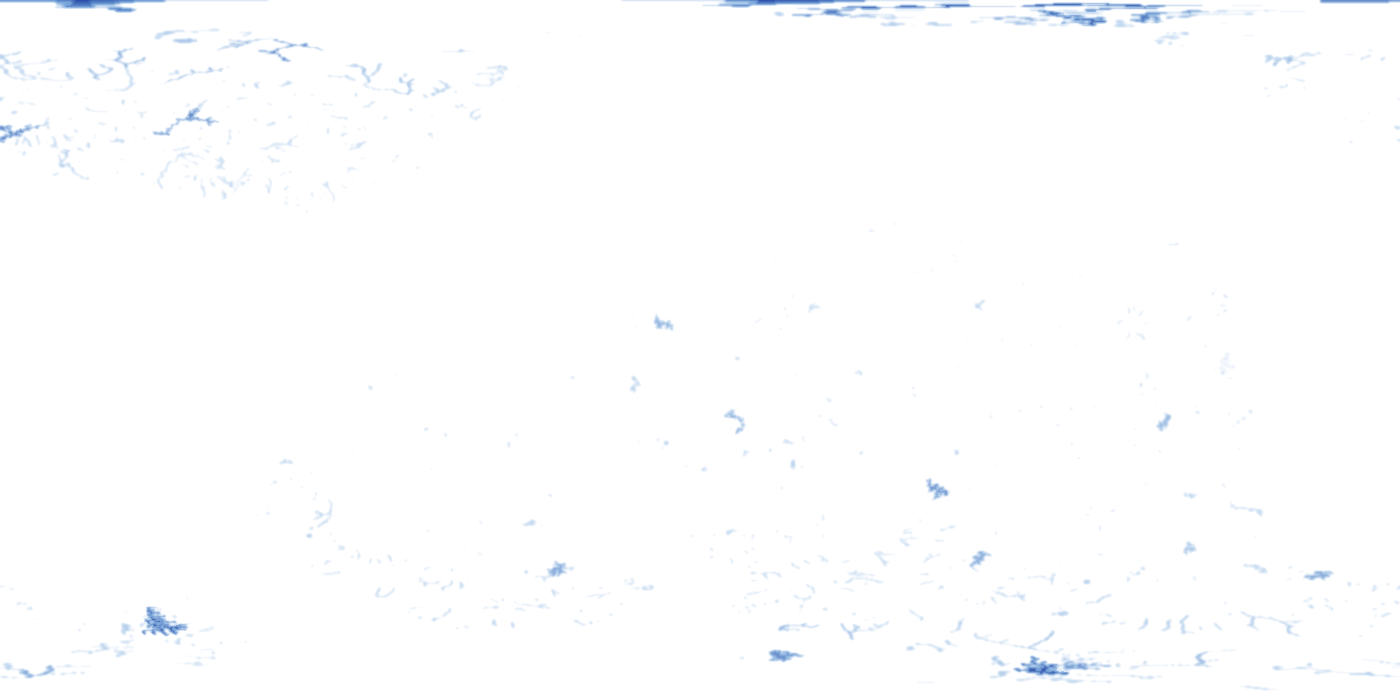
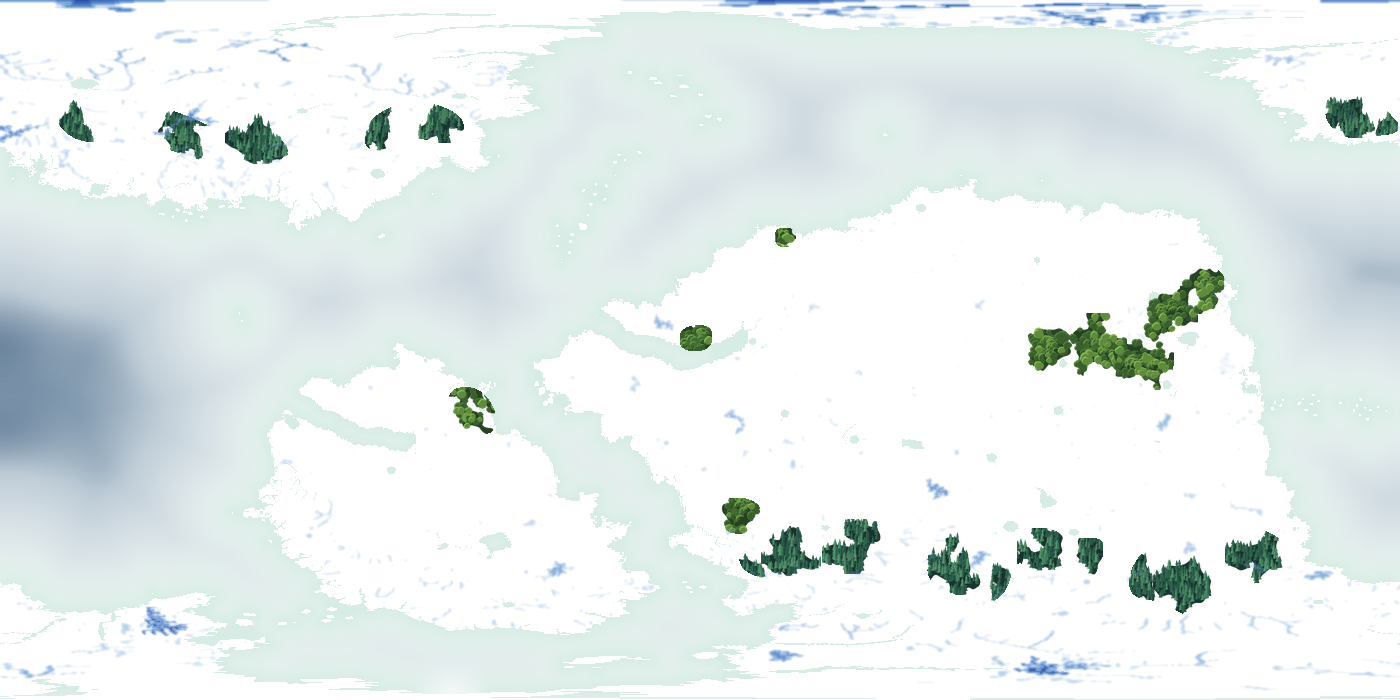
全実装を一括で通す build_world.py: 森・海の深さを足して球体2世界を作り直す
Claude-Session: https://claude.ai/code/session_01NNF75WtqSrNc5QxPaYtfZJ

diff --git a/docs/apps/fantasy-war/world3d.html b/docs/apps/fantasy-war/world3d.html
@@ -52,7 +52,8 @@ async function load(id){
   const ru=new Float32Array(q.length/3*2); o=0; for(const m of r.c){let acc=0; for(let j=0;j<m;j++){ if(j>0){const a=(o+2*j)*3,b=(o+2*j-2)*3; acc+=Math.hypot(rp[a]-rp[b],rp[a+1]-rp[b+1],rp[a+2]-rp[b+2]);} ru[(o+2*j)*2]=0; ru[(o+2*j+1)*2]=1; ru[(o+2*j)*2+1]=ru[(o+2*j+1)*2+1]=acc/60;} o+=2*m;}
   const rg=new THREE.BufferGeometry(); rg.setAttribute('position',new THREE.BufferAttribute(rp,3)); rg.setAttribute('uv',new THREE.BufferAttribute(ru,2)); rg.setIndex(ri);
   riv=new THREE.Mesh(rg,new THREE.MeshBasicMaterial({map:rivTex(),side:THREE.DoubleSide,polygonOffset:true,polygonOffsetFactor:-2,polygonOffsetUnits:-2})); S.add(riv);}}catch(e){console.log('river',e);}
- if(sea)S.remove(sea); sea=new THREE.Mesh(new THREE.PlaneGeometry(d.w*1.2,d.h*1.2),new THREE.MeshLambertMaterial({color:0xb4c4c0})); sea.rotation.x=-Math.PI/2; sea.position.y=-1; S.add(sea);
+ if(sea)S.remove(sea); sea=new THREE.Mesh(new THREE.PlaneGeometry(d.w*1.2,d.h*1.2),new THREE.MeshBasicMaterial({color:0xb4c4c0})); sea.rotation.x=-Math.PI/2; sea.position.y=-1; S.add(sea);
+ try{const t2=await new THREE.TextureLoader().loadAsync(`w3d/world${id}_sea.jpg`); t2.colorSpace=THREE.SRGBColorSpace; const p2=new THREE.Mesh(new THREE.PlaneGeometry(d.w,d.h),new THREE.MeshBasicMaterial({map:t2})); p2.position.z=2.0; sea.add(p2);}catch(e){}   // 海の深さの色(岸から沖へ濃く・岸ぞいの浅瀬)
  info=`面 ${d.f.length/3} / 読み込み ${(performance.now()-t0).toFixed(0)}ms`;
  st.textContent=info+'\nドラッグで回す。';
  window.__ready=id;

diff --git a/docs/apps/fantasy-war/mapstyle/tools/forest_world_layer.py b/docs/apps/fantasy-war/mapstyle/tools/forest_world_layer.py
@@ -5,31 +5,36 @@ import sys, os, numpy as np, cv2
 from PIL import Image
 sys.path.insert(0, os.path.dirname(os.path.abspath(__file__)))
 import forest_mass as fm
-wd = np.array(Image.open(sys.argv[1].rstrip('/') + '/world-data.png')); out = sys.argv[2]; seed = int(sys.argv[3]) if len(sys.argv) > 3 else 1
-H0, W0 = wd.shape[:2]; bio = wd[..., 1]; R = wd[..., 0].astype(np.float32); land = (bio > 0) & (R >= 20)
-Hh = R / 2.55
-broad = np.isin(bio, [5, 6, 7, 8]) & land; conif = (bio == 9) & land
-low = Hh < 55                                         # 高い山の上には置かない
-layer = Image.new('RGBA', (W0, H0), (0, 0, 0, 0)); placed = []
-for kind, msk in (('broad', broad & low), ('conif', conif & low)):
-    m = cv2.erode(msk.astype(np.uint8), np.ones((5, 5), np.uint8))
-    D = cv2.GaussianBlur(m.astype(np.float32), (0, 0), 14)
-    order = np.dstack(np.unravel_index(np.argsort(-D.ravel()), D.shape))[0]
-    reg = cv2.dilate((D > 0.1).astype(np.uint8), np.ones((7, 7), np.uint8))
-    for y, x in order[::9]:
-        if D[y, x] < 0.30: break
-        if all((x - px) ** 2 + (y - py) ** 2 > 78 ** 2 for px, py, _ in placed):
-            size = int(78 + 45 * D[y, x]); i = len(placed); placed.append((x, y, kind))
-            L = None
-            for t in range(6):          # 内側が空になる小さな塊は、種を変えてやり直す
-                try:
-                    if kind == 'broad': L, _ = fm.make_mix(size, seed + i + 97 * t, (4.0, 8.4), fm.PAL['broad3'], light_gauss={'seed': i % 3}, base_gauss={'seed': (i + t) % 3})
-                    else: L, _ = fm.make_mix(size, seed + i + 97 * t, (4.2, 7.0), fm.PAL['conif'], light_gauss={'seed': i % 3}, base_gauss={'seed': (i + t) % 3}, kind_in='conif3_moon', kind_edge='conif3_top')
-                    break
-                except ValueError: L = None
-            if L is None: continue
-            arr = np.array(L[-1].resize((size, size), Image.LANCZOS)); x0, y0 = int(x - size / 2), int(y - size / 2)
-            ys, xs = max(0, y0), max(0, x0); ye, xe = min(H0, y0 + size), min(W0, x0 + size)
-            a = arr[ys - y0:ye - y0, xs - x0:xe - x0].copy(); a[..., 3] = (a[..., 3] * reg[ys:ye, xs:xe]).astype(np.uint8)
-            layer.alpha_composite(Image.fromarray(a), (xs, ys))
-layer.save(out); print('塊', len(placed), '針葉樹', sum(p[2] == 'conif' for p in placed))
+def build(wd, seed=1, dmin=None, sp=None):
+    DMIN = float(os.environ.get('FM_FOREST_DMIN', '0.08')) if dmin is None else dmin; SP = int(os.environ.get('FM_FOREST_SP', '50')) if sp is None else sp
+    H0, W0 = wd.shape[:2]; bio = wd[..., 1]; R = wd[..., 0].astype(np.float32); land = (bio > 0) & (R >= 20)
+    Hh = R / 2.55
+    broad = np.isin(bio, [5, 6, 7, 8]) & land; conif = (bio == 9) & land
+    low = Hh < 55                                         # 高い山の上には置かない
+    layer = Image.new('RGBA', (W0, H0), (0, 0, 0, 0)); placed = []
+    for kind, msk in (('broad', broad & low), ('conif', conif & low)):
+        m = cv2.erode(msk.astype(np.uint8), np.ones((5, 5), np.uint8))
+        D = cv2.GaussianBlur(m.astype(np.float32), (0, 0), 14)
+        order = np.dstack(np.unravel_index(np.argsort(-D.ravel()), D.shape))[0]
+        reg = cv2.dilate((D > 0.1).astype(np.uint8), np.ones((7, 7), np.uint8))
+        for y, x in order[::9]:
+            if D[y, x] < DMIN: break
+            if all((x - px) ** 2 + (y - py) ** 2 > SP ** 2 for px, py, _ in placed):
+                size = int(SP + 45 * D[y, x]); i = len(placed); placed.append((x, y, kind))
+                L = None
+                for t in range(6):          # 内側が空になる小さな塊は、種を変えてやり直す
+                    try:
+                        if kind == 'broad': L, _ = fm.make_mix(size, seed + i + 97 * t, (4.0, 8.4), fm.PAL['broad3'], light_gauss={'seed': i % 3}, base_gauss={'seed': (i + t) % 3})
+                        else: L, _ = fm.make_mix(size, seed + i + 97 * t, (4.2, 7.0), fm.PAL['conif'], light_gauss={'seed': i % 3}, base_gauss={'seed': (i + t) % 3}, kind_in='conif3_moon', kind_edge='conif3_top')
+                        break
+                    except ValueError: L = None
+                if L is None: continue
+                arr = np.array(L[-1].resize((size, size), Image.LANCZOS)); x0, y0 = int(x - size / 2), int(y - size / 2)
+                ys, xs = max(0, y0), max(0, x0); ye, xe = min(H0, y0 + size), min(W0, x0 + size)
+                a = arr[ys - y0:ye - y0, xs - x0:xe - x0].copy(); a[..., 3] = (a[..., 3] * reg[ys:ye, xs:xe]).astype(np.uint8)
+                layer.alpha_composite(Image.fromarray(a), (xs, ys))
+    print('森の塊', len(placed), '針葉樹', sum(p[2] == 'conif' for p in placed)); return layer
+
+if __name__ == "__main__":
+    wd = np.array(Image.open(sys.argv[1].rstrip('/') + '/world-data.png')); out = sys.argv[2]; seed = int(sys.argv[3]) if len(sys.argv) > 3 else 1
+    build(wd, seed).save(out)

diff --git a/docs/apps/fantasy-war/mapstyle/tools/sea_layer.py b/docs/apps/fantasy-war/mapstyle/tools/sea_layer.py
@@ -1,0 +1,28 @@
+# 海の深さの色と浅瀬を、透明な層(地図と同じ位置のUV)にする。illus.py の FM_DEPTH(岸からの距離で浅い=明るい・沖=濃い青+沖の深み)と
+# FM_COAST=2 の浅瀬(岸ぞいの明るい青緑)の考え方を、3D用の層にしたもの(2Dの絵の羊皮紙の上でなく、3Dの海の面の上に重ねる)。
+import numpy as np
+from PIL import Image
+from scipy import ndimage as ndi
+def build(land, seed=1, depth_k=0.8, depth_d=230.0, shallow_k=0.8, shallow_d=30.0, deep2_k=0.7):
+    H, W = land.shape; sea = ~land
+    dist = ndi.distance_transform_edt(~land).astype(np.float32)
+    dd = ndi.gaussian_filter(dist, 6); dep = np.clip(dd / depth_d, 0, 1) ** 0.85
+    nz = ndi.gaussian_filter(np.random.RandomState(seed + 41).randn(H, W).astype(np.float32), 28); nz /= (nz.std() + 1e-6)
+    far = np.clip((dd - 110.0) / 90.0, 0, 1); core = ndi.gaussian_filter(np.clip(far * (0.65 + 0.35 * nz), 0, 1), 5) * deep2_k
+    closed = ndi.binary_closing(land, structure=np.ones((3, 3), bool), iterations=7)
+    dw = ndi.gaussian_filter(ndi.distance_transform_edt(~closed).astype(np.float32), 2.5); sh = np.exp(-dw / shallow_d) * shallow_k
+    rgb = np.zeros((H, W, 3), np.float32); a = np.zeros((H, W), np.float32)
+    def over(c, k):
+        nonlocal rgb, a
+        k = np.clip(k, 0, 1); na = k + a * (1 - k); rgb = np.where(na[..., None] > 0, (np.array(c, np.float32) * k[..., None] + rgb * (a * (1 - k))[..., None]) / np.maximum(na[..., None], 1e-6), rgb); a = na
+    over((86, 122, 150), dep * depth_k * 0.9)          # 沖ほど濃い青灰
+    over((42, 74, 112), core)                           # 沖の深み(最濃の青の塊)
+    over((206, 232, 222), sh)                           # 岸ぞいの浅瀬
+    a = a * sea; out = np.dstack([rgb, a * 255]).clip(0, 255).astype(np.uint8)
+    return Image.fromarray(out, 'RGBA')
+
+def colormap(land, seed=1, base=(180, 196, 192)):
+    """3Dの海の面に貼る、不透明な色の地図(1400x700 RGB)。層(build)を、海の基本色の上に重ねたもの。陸の所は基本色のまま(陸は地形の面が覆う)。"""
+    lay = np.array(build(land, seed)).astype(np.float32); a = lay[..., 3:4] / 255
+    rgb = np.array(base, np.float32) * (1 - a) + lay[..., :3] * a
+    return Image.fromarray(rgb.clip(0, 255).astype(np.uint8), 'RGB')

diff --git a/docs/apps/fantasy-war/mapstyle/tools/build_world.py b/docs/apps/fantasy-war/mapstyle/tools/build_world.py
@@ -1,0 +1,19 @@
+# 全ての実装を一括で通すアプリ(11-23 ユーザー指示「全ての実装をするアプリを完成させて実行してみそ」)。
+# 入力: PWGの生データ(pwg_sphere_probe3.ts が書く r<seed>_*.bin。ドライブ「世界データ」の球体PWG_seed<seed>_生データ に保管)
+# 通す実装(見せ方の列): 球体2:1の展開・陸の少ない列で海に切る → ローポリ(mapstyle40の基準)→ 面ごとのUV(アトラス)
+#   → 川(大河のみの帯)・湖(大小で濃淡)→ 森(第10版の描き方・森の群系)→ 海の深さ・浅瀬 → 3D表示(world3d.html)用ファイルとハブへの配置。
+# 使い方: python3 -I build_world.py <生データのあるディレクトリ> <seed> [<seed> ...]   例: python3 -I build_world.py /tmp/claude-0/riv2 31 32
+import sys, os, shutil, time, subprocess
+T = os.path.dirname(os.path.abspath(__file__)); FW = os.path.abspath(os.path.join(T, '..', '..'))
+def build(raw, seed, work=None):
+    t0 = time.time(); work = work or os.path.join(raw, 'o%dt' % seed); os.makedirs(work, exist_ok=True)
+    name = 'worldsp%d' % seed
+    r = subprocess.run([sys.executable, '-I', os.path.join(T, 'pwg_sphere_convert.py'), os.path.join(raw, 'r%d' % seed), work, name, str(seed)], cwd=work, capture_output=True, text=True)
+    if r.returncode: print(r.stderr[-1500:]); raise SystemExit('変換に失敗 seed%d' % seed)
+    for f in ('.json', '.jpg', '_riv.json', '_sea.jpg'): shutil.copy(os.path.join(work, name + f), os.path.join(FW, 'w3d', name + f))
+    d = os.path.join(FW, 'mapstyle', 'pwgsphere', 'sp%d' % seed); os.makedirs(d, exist_ok=True)
+    for f in ('world-data.png', 'water-layer.png'): shutil.copy(os.path.join(work, f), os.path.join(d, f))
+    print('seed', seed, '完了 %.1f秒' % (time.time() - t0)); print(r.stdout.strip())
+if __name__ == '__main__':
+    raw = sys.argv[1]
+    for s in sys.argv[2:]: build(raw, int(s))

diff --git a/docs/apps/fantasy-war/mapstyle/tools/pwg_sphere_convert.py b/docs/apps/fantasy-war/mapstyle/tools/pwg_sphere_convert.py
@@ -43,7 +43,14 @@ def main(pre, outdir, name, seed=1):
     os.environ['FM_LP_UV'] = '1'; os.environ['FM_LP_ATLAS'] = '1'; os.environ['FM_LP_DUMP'] = name
     if D is not None:
         import water_layer
-        ov = outdir + '/water-layer.png'; print(water_layer.make(G, lake, land0, H, ov, shift, seed)); os.environ['FM_LP_OVERLAY'] = ov
+        wo = outdir + '/water-only.png'; print(water_layer.make(G, lake, land0, H, wo, shift, seed))
+        import cv2, forest_world_layer, sea_layer; from PIL import Image as _I
+        wl = cv2.imread(wo, cv2.IMREAD_UNCHANGED); wl = _I.fromarray(cv2.cvtColor(wl, cv2.COLOR_BGRA2RGBA))
+        sea_layer.colormap(land, seed).save(name + '_sea.jpg', quality=92)   # 3Dの海の面に貼る色の地図
+        lay = sea_layer.build(land, seed)                              # 海の深さ・浅瀬(11-23 全実装に統合)
+        lay.alpha_composite(forest_world_layer.build(dat, seed))       # 森の塊(第10版)
+        lay.alpha_composite(wl)                                        # 川の水面・湖(いちばん上)
+        ov = outdir + '/water-layer.png'; cv2.imwrite(ov, cv2.cvtColor(np.array(lay), cv2.COLOR_RGBA2BGRA)); os.environ['FM_LP_OVERLAY'] = ov
     import lowpoly
     img = np.zeros((Hh, W, 3), np.float32) + np.array([206, 223, 235], np.float32)
     lowpoly.paint(img, H, land, BI, seed)

diff --git a/docs/apps/sekai-hex/design/STATE.md b/docs/apps/sekai-hex/design/STATE.md
@@ -216,6 +216,7 @@
 - 【指摘・指示 11-22 22:01 ユーザー】『自然な地図の山なんて望んでいない。多少の強調は必要。強調の基準はハブに書いたよね。ハブから外れている。また、川の数が多すぎる。川も山も特徴的なのだけを選んで強調して書くんだよ』。→ 認める(私の落ち度): 21:56の『実寸の縮尺×誇張30倍』は、ハブの確定済みの基準(カード6A『地形には特出する地形があり、絵はそれをいろいろな形で示す=デフォルメ=特徴を選んで強調』・カード6E『ゆるい3D+強調は高い山が集まる所だけ』・平均してならすのは失敗)を確かめずに、自分で自然さの基準を作ったもので、基準違反。21:56の誇張30倍は取り下げ(置き換え済み)。実施: ①山=カード6E(mapstyle40)の基準に戻した: 全体はゆるい3D(強さ0.535)・高い山が集まる所だけ強調(0.775、集まりのしきい値0.17)・低地の面は粗く山は細かく・山の縁は中間の細かさ(FM_LP_GENTLE=1 BASE=0.535 EMPH=0.775 D0=0.17 SP=1.3 RING=1)。pwg_sphere_convert.py の既定にした。②川=特徴的なものだけ選ぶ: 流域の最大の順位が6以上の大河の系統だけ、その中の順位5以上を描く(旧: 順位4以上の全部)。幅を太め(旧の1.4倍)に強調。結果(実測): 川の連なり 約1,070→124(seed31)・1,090→134(seed32)、頂点 2.0万→0.4万。山の面は12,120・10,155、面の伸び率は中央1.26〜1.30倍・90%点約3倍・99%点約5倍(強調域の山は伸びる=ユーザー『少し伸びてよい』の範囲と解釈)、最高点は約67画素(旧: 97画素の針→21:56の56画素の平坦)。目視(PC画面・全体と近づき): 山脈が強調された尖った峰として見え、低地はゆるく、川は少数の大河が山から低地・海へ流れる。限界: 川は大河中心で、小さな島(西の島)や湖の周りでは川がほぼ無い/大河の選び方(最大順位6以上・描く順位5以上)は私の初期値(RIV_BASIN・RIV_ORD で変える。順位4で約3倍に増える)/山の強調の強さはmapstyle40の値のまま(ユーザー評価済みの値)で、3D表示の高さ倍率(1.1)は未調整/PWG5の5世界は未反映/iPhone未測定。次の一手: 球体の世界に森を足す(強調して選んだ場所に)。
 - 【指示 11-22 22:11 ユーザー(参考画像: 光る川のファンタジー地図)】『水色すぎる。こんな感じで光らせても濃い色も混じるんだよ。濃い色と水色を混ぜて』。→ 実施: 川の色を『光る水色の芯+縁と所々に濃い青』にした。川の帯に絵(模様)を貼る形にし(world3d.html の rivTex)、幅方向=芯が明るい水色(150,228,255)で縁ほど濃い青(28,52,150)、長さ方向=濃淡のむら(芯が水色〜青(45,95,205)の間で変わる、周期は川の長さ約60ごと)。湖も、水色一色をやめ青寄り(92,150,214)・縁を濃い青(34,58,140)に。結果(目視・PC画面の近づいた3D): 川は明るい芯と濃い縁で光るように見え、所々青が濃くなる。限界: 色の配合・濃淡の周期は私の初期値/『光る』(ぼんやり発光・川の周りの滲み)は未実装で、色の濃淡のみ/湖は川より濃く見える/参考画像の紫の混じり・稲妻状の細い光は未対応/iPhone未測定。次の一手: 色の濃淡を見て調整点を一言、または球体の世界に森を足す。
 - 【指示 11-23 00:56 ユーザー】『湖の中を今の色にして外周を海と同様に薄く描くとそれらしく見える。小さな湖はあまり目立たせない。大きな湖だけ濃淡をつけて目立たせる』。→ 実施: 湖の中は今の青、外周に海と同じ薄い縁(浅瀬色)を足し、濃い縁取りは廃止。湖の大きさで見え方を変えた(小さい湖=かなり淡い、大きい湖=中心ほど濃い青+薄い縁)。実測: 湖の数 1678/1613(球体2世界)、大きい湖(400画素以上)4/3、湖の画素 10142/9461。目視(湖の絵の切り出し): 大きい湖は中心が濃く縁が淡い、小さい湖はほぼ目立たない。3Dでの大湖の近接は未確認。限界: 大きい湖の基準(400画素)・淡さは私の初期値/中くらいの湖(60〜400画素)の見え方は未調整/iPhone未測定。次の一手: 球体の世界に森を足す。
+- 【指示 11-23 01:53 ユーザー】『いちいち確かめすぎ。全ての実装をするアプリを完成させて実行してみそ』。→ 実施: 一括実行アプリ build_world.py(mapstyle/tools)を作って実行。生データ(PWG)→球体2:1展開・海で切る→ローポリ(mapstyle40の基準)→面ごとのUV→川(大河のみの帯)・湖(大小で濃淡)→森(第10版の描き方・森の群系)→海の深さ・浅瀬→3D表示の用ファイルとハブへの配置、を1コマンドで通す(使い方: python3 -I build_world.py <生データdir> 31 32)。森=pwg_sphere_convertが forest_world_layer.build を呼び、海=sea_layer.py(岸からの距離で沖ほど濃い青・沖の深み・岸ぞいの浅瀬。3Dの海の面に貼る色の地図 world<名>_sea.jpg を world3d.html が読む)。実測: 2世界の実行 約16秒(各8秒)・森の塊 32/33(針葉樹 19/8。置き方のしきい値は私の初期値 FM_FOREST_DMIN=0.08・SP=50)・面 12,120/10,155・エラー無し。目視(PC画面・全体): 山・森の塊・川・湖・海の深さの色が出た。限界: 森の置き場は旧方式(PWG5で『良かった』と評価した置き方)のままで、強調して選ぶ基準(カード6G)・群系28は未/海岸線の整え(mapstyle45の線)・方位記号・縮尺棒・題と枠・地名・都市は未搭載(まだ全部入りではない)/海の面の周りに薄い灰色の帯が見える所がある/目視は全体のみで近づいた確認は未/iPhone未測定。次の一手: 未搭載の見せ方(海岸線・方位・縮尺・題と枠)を build_world に足す。
 
 ## カード15 制作プロトコル(超基礎概念)と、このプロジェクトの作業フロー【確定(ユーザー指示 11-21)+案】
 - 適用範囲: このプロジェクト(ファンタジー世界戦争=世界ハニカム、docs/apps/fantasy-war と sekai-hex)だけ。他のアプリには適用しない。

diff --git a/docs/apps/sekai-hex/design/cards/c06g.md b/docs/apps/sekai-hex/design/cards/c06g.md
@@ -102,3 +102,4 @@
 - 【指摘・指示 11-22 22:01 ユーザー】『自然な地図の山なんて望んでいない。多少の強調は必要。強調の基準はハブに書いたよね。ハブから外れている。また、川の数が多すぎる。川も山も特徴的なのだけを選んで強調して書くんだよ』。→ 認める(私の落ち度): 21:56の『実寸の縮尺×誇張30倍』は、ハブの確定済みの基準(カード6A『地形には特出する地形があり、絵はそれをいろいろな形で示す=デフォルメ=特徴を選んで強調』・カード6E『ゆるい3D+強調は高い山が集まる所だけ』・平均してならすのは失敗)を確かめずに、自分で自然さの基準を作ったもので、基準違反。21:56の誇張30倍は取り下げ(置き換え済み)。実施: ①山=カード6E(mapstyle40)の基準に戻した: 全体はゆるい3D(強さ0.535)・高い山が集まる所だけ強調(0.775、集まりのしきい値0.17)・低地の面は粗く山は細かく・山の縁は中間の細かさ(FM_LP_GENTLE=1 BASE=0.535 EMPH=0.775 D0=0.17 SP=1.3 RING=1)。pwg_sphere_convert.py の既定にした。②川=特徴的なものだけ選ぶ: 流域の最大の順位が6以上の大河の系統だけ、その中の順位5以上を描く(旧: 順位4以上の全部)。幅を太め(旧の1.4倍)に強調。結果(実測): 川の連なり 約1,070→124(seed31)・1,090→134(seed32)、頂点 2.0万→0.4万。山の面は12,120・10,155、面の伸び率は中央1.26〜1.30倍・90%点約3倍・99%点約5倍(強調域の山は伸びる=ユーザー『少し伸びてよい』の範囲と解釈)、最高点は約67画素(旧: 97画素の針→21:56の56画素の平坦)。目視(PC画面・全体と近づき): 山脈が強調された尖った峰として見え、低地はゆるく、川は少数の大河が山から低地・海へ流れる。限界: 川は大河中心で、小さな島(西の島)や湖の周りでは川がほぼ無い/大河の選び方(最大順位6以上・描く順位5以上)は私の初期値(RIV_BASIN・RIV_ORD で変える。順位4で約3倍に増える)/山の強調の強さはmapstyle40の値のまま(ユーザー評価済みの値)で、3D表示の高さ倍率(1.1)は未調整/PWG5の5世界は未反映/iPhone未測定。次の一手: 球体の世界に森を足す(強調して選んだ場所に)。
 - 【指示 11-22 22:11 ユーザー(参考画像: 光る川のファンタジー地図)】『水色すぎる。こんな感じで光らせても濃い色も混じるんだよ。濃い色と水色を混ぜて』。→ 実施: 川の色を『光る水色の芯+縁と所々に濃い青』にした。川の帯に絵(模様)を貼る形にし(world3d.html の rivTex)、幅方向=芯が明るい水色(150,228,255)で縁ほど濃い青(28,52,150)、長さ方向=濃淡のむら(芯が水色〜青(45,95,205)の間で変わる、周期は川の長さ約60ごと)。湖も、水色一色をやめ青寄り(92,150,214)・縁を濃い青(34,58,140)に。結果(目視・PC画面の近づいた3D): 川は明るい芯と濃い縁で光るように見え、所々青が濃くなる。限界: 色の配合・濃淡の周期は私の初期値/『光る』(ぼんやり発光・川の周りの滲み)は未実装で、色の濃淡のみ/湖は川より濃く見える/参考画像の紫の混じり・稲妻状の細い光は未対応/iPhone未測定。次の一手: 色の濃淡を見て調整点を一言、または球体の世界に森を足す。
 - 【指示 11-23 00:56 ユーザー】『湖の中を今の色にして外周を海と同様に薄く描くとそれらしく見える。小さな湖はあまり目立たせない。大きな湖だけ濃淡をつけて目立たせる』。→ 実施: 湖の中は今の青、外周に海と同じ薄い縁(浅瀬色)を足し、濃い縁取りは廃止。湖の大きさで見え方を変えた(小さい湖=かなり淡い、大きい湖=中心ほど濃い青+薄い縁)。実測: 湖の数 1678/1613(球体2世界)、大きい湖(400画素以上)4/3、湖の画素 10142/9461。目視(湖の絵の切り出し): 大きい湖は中心が濃く縁が淡い、小さい湖はほぼ目立たない。3Dでの大湖の近接は未確認。限界: 大きい湖の基準(400画素)・淡さは私の初期値/中くらいの湖(60〜400画素)の見え方は未調整/iPhone未測定。次の一手: 球体の世界に森を足す。
+- 【指示 11-23 01:53 ユーザー】『いちいち確かめすぎ。全ての実装をするアプリを完成させて実行してみそ』。→ 実施: 一括実行アプリ build_world.py(mapstyle/tools)を作って実行。生データ(PWG)→球体2:1展開・海で切る→ローポリ(mapstyle40の基準)→面ごとのUV→川(大河のみの帯)・湖(大小で濃淡)→森(第10版の描き方・森の群系)→海の深さ・浅瀬→3D表示の用ファイルとハブへの配置、を1コマンドで通す(使い方: python3 -I build_world.py <生データdir> 31 32)。森=pwg_sphere_convertが forest_world_layer.build を呼び、海=sea_layer.py(岸からの距離で沖ほど濃い青・沖の深み・岸ぞいの浅瀬。3Dの海の面に貼る色の地図 world<名>_sea.jpg を world3d.html が読む)。実測: 2世界の実行 約16秒(各8秒)・森の塊 32/33(針葉樹 19/8。置き方のしきい値は私の初期値 FM_FOREST_DMIN=0.08・SP=50)・面 12,120/10,155・エラー無し。目視(PC画面・全体): 山・森の塊・川・湖・海の深さの色が出た。限界: 森の置き場は旧方式(PWG5で『良かった』と評価した置き方)のままで、強調して選ぶ基準(カード6G)・群系28は未/海岸線の整え(mapstyle45の線)・方位記号・縮尺棒・題と枠・地名・都市は未搭載(まだ全部入りではない)/海の面の周りに薄い灰色の帯が見える所がある/目視は全体のみで近づいた確認は未/iPhone未測定。次の一手: 未搭載の見せ方(海岸線・方位・縮尺・題と枠)を build_world に足す。
